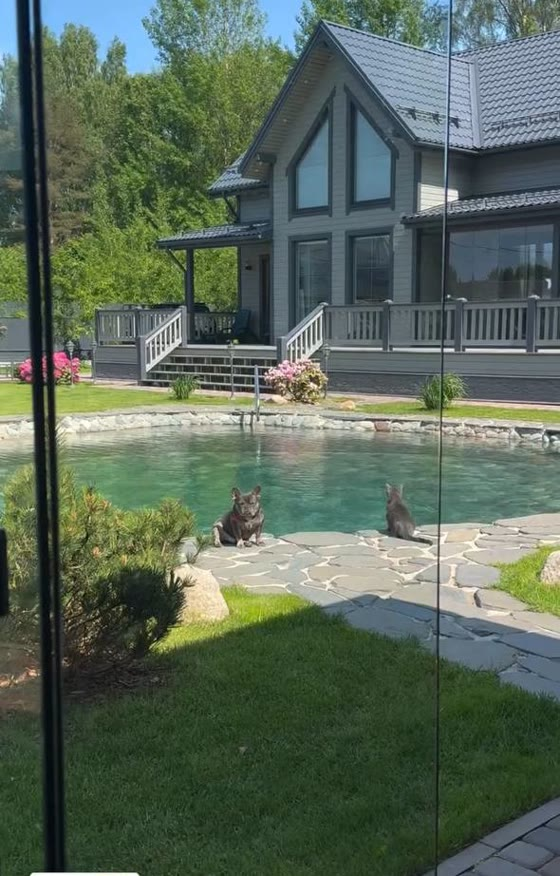
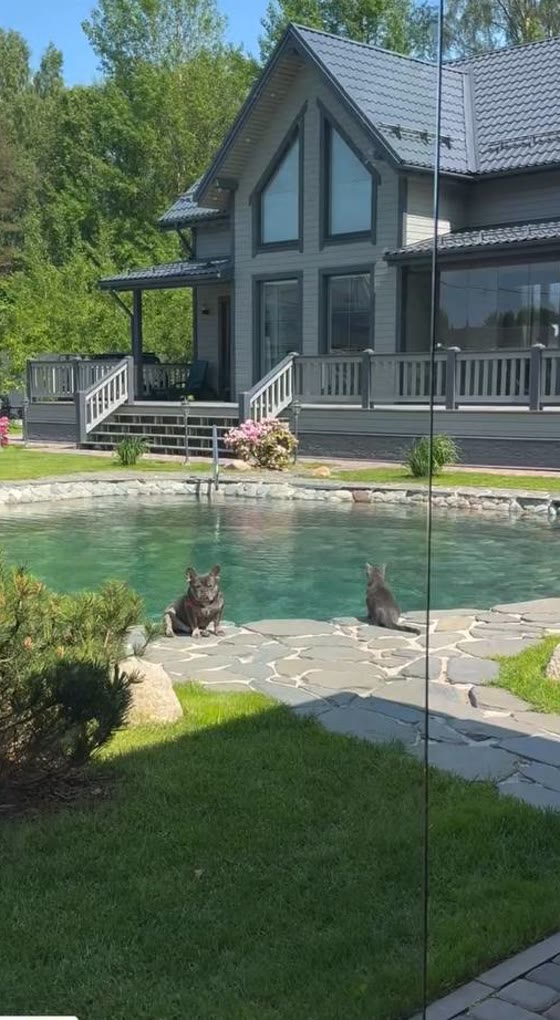
Азиза: локации — чистые кадры из видео вместо скринов с разметкой, обложка без стойки

diff --git a/aiza-plan-dom/index.html b/aiza-plan-dom/index.html
@@ -2173,21 +2173,21 @@
     </div>
     <figure class="loc-cover reveal"><img src="assets/mangal.jpg" alt="Дом и пруд"><figcaption>дом и пруд · общий план</figcaption></figure>
     <div class="gal reveal">
-      <figure><img src="assets/mk-kuhnya.jpg" alt="Кухня"><figcaption>01 · кухня</figcaption></figure>
+      <figure><img src="assets/v-kuhnya.jpg" alt="Кухня"><figcaption>01 · кухня</figcaption></figure>
       <figure><img src="assets/vanna.jpg" alt="Ванная"><figcaption>02 · ванная</figcaption></figure>
       <figure><img src="assets/parnik.jpg" alt="Парник"><figcaption>03 · парник</figcaption></figure>
       <figure><img src="assets/terrasa.jpg" alt="Терраса"><figcaption>04 · терраса</figcaption></figure>
-      <figure><img src="assets/mk-prud.jpg" alt="Пруд"><figcaption>05 · пруд</figcaption></figure>
+      <figure><img src="assets/prud.jpg" alt="Пруд"><figcaption>05 · пруд</figcaption></figure>
       <figure><img src="assets/nastil.jpg" alt="Настил"><figcaption>06 · настил у пруда</figcaption></figure>
-      <figure><img src="assets/mk-alleya.jpg" alt="Аллея"><figcaption>07 · аллея</figcaption></figure>
-      <figure><img src="assets/mk-veranda.jpg" alt="Веранда"><figcaption>08 · веранда и мольберт</figcaption></figure>
-      <figure><img src="assets/mk-vtoroy-svet.jpg" alt="Второй свет"><figcaption>09 · второй свет</figcaption></figure>
-      <figure><img src="assets/mk-spalnya.jpg" alt="Спальня"><figcaption>10 · спальня</figcaption></figure>
-      <figure><img src="assets/mk-stolik.jpg" alt="Туалетный столик"><figcaption>11 · туалетный столик</figcaption></figure>
-      <figure><img src="assets/mk-kabinet.jpg" alt="Кабинет"><figcaption>12 · кабинет</figcaption></figure>
-      <figure><img src="assets/mk-luzhayka.jpg" alt="Лужайка сверху"><figcaption>13 · лужайка сверху</figcaption></figure>
-      <figure><img src="assets/mk-mashiny.jpg" alt="Машины"><figcaption>14 · машины</figcaption></figure>
-      <figure><img src="assets/mk-kartina.jpg" alt="Картина"><figcaption>15 · картина</figcaption></figure>
+      <figure><img src="assets/alleya.jpg" alt="Аллея"><figcaption>07 · аллея</figcaption></figure>
+      <figure><img src="assets/v-molbert.jpg" alt="Веранда"><figcaption>08 · веранда и мольберт</figcaption></figure>
+      <figure><img src="assets/v-vtoroy-svet.jpg" alt="Второй свет"><figcaption>09 · второй свет</figcaption></figure>
+      <figure><img src="assets/v-spalnya.jpg" alt="Спальня"><figcaption>10 · спальня</figcaption></figure>
+      <figure><img src="assets/v-stolik.jpg" alt="Туалетный столик"><figcaption>11 · туалетный столик</figcaption></figure>
+      <figure><img src="assets/v-pianino-red.jpg" alt="Кабинет"><figcaption>12 · кабинет</figcaption></figure>
+      <figure><img src="assets/v-luzhayka.jpg" alt="Лужайка сверху"><figcaption>13 · лужайка сверху</figcaption></figure>
+      <figure><img src="assets/v-mashiny.jpg" alt="Машины"><figcaption>14 · машины</figcaption></figure>
+      <figure><img src="assets/v-kartina.jpg" alt="Картина"><figcaption>15 · картина</figcaption></figure>
     </div>
     <div class="tlist" style="margin-top:26px">
       <div class="theme reveal"><span class="tn">01</span><div class="tb"><h3>Кухня</h3><p>Утро, завтрак, мысли за кадром, кормление Балу.</p></div></div>